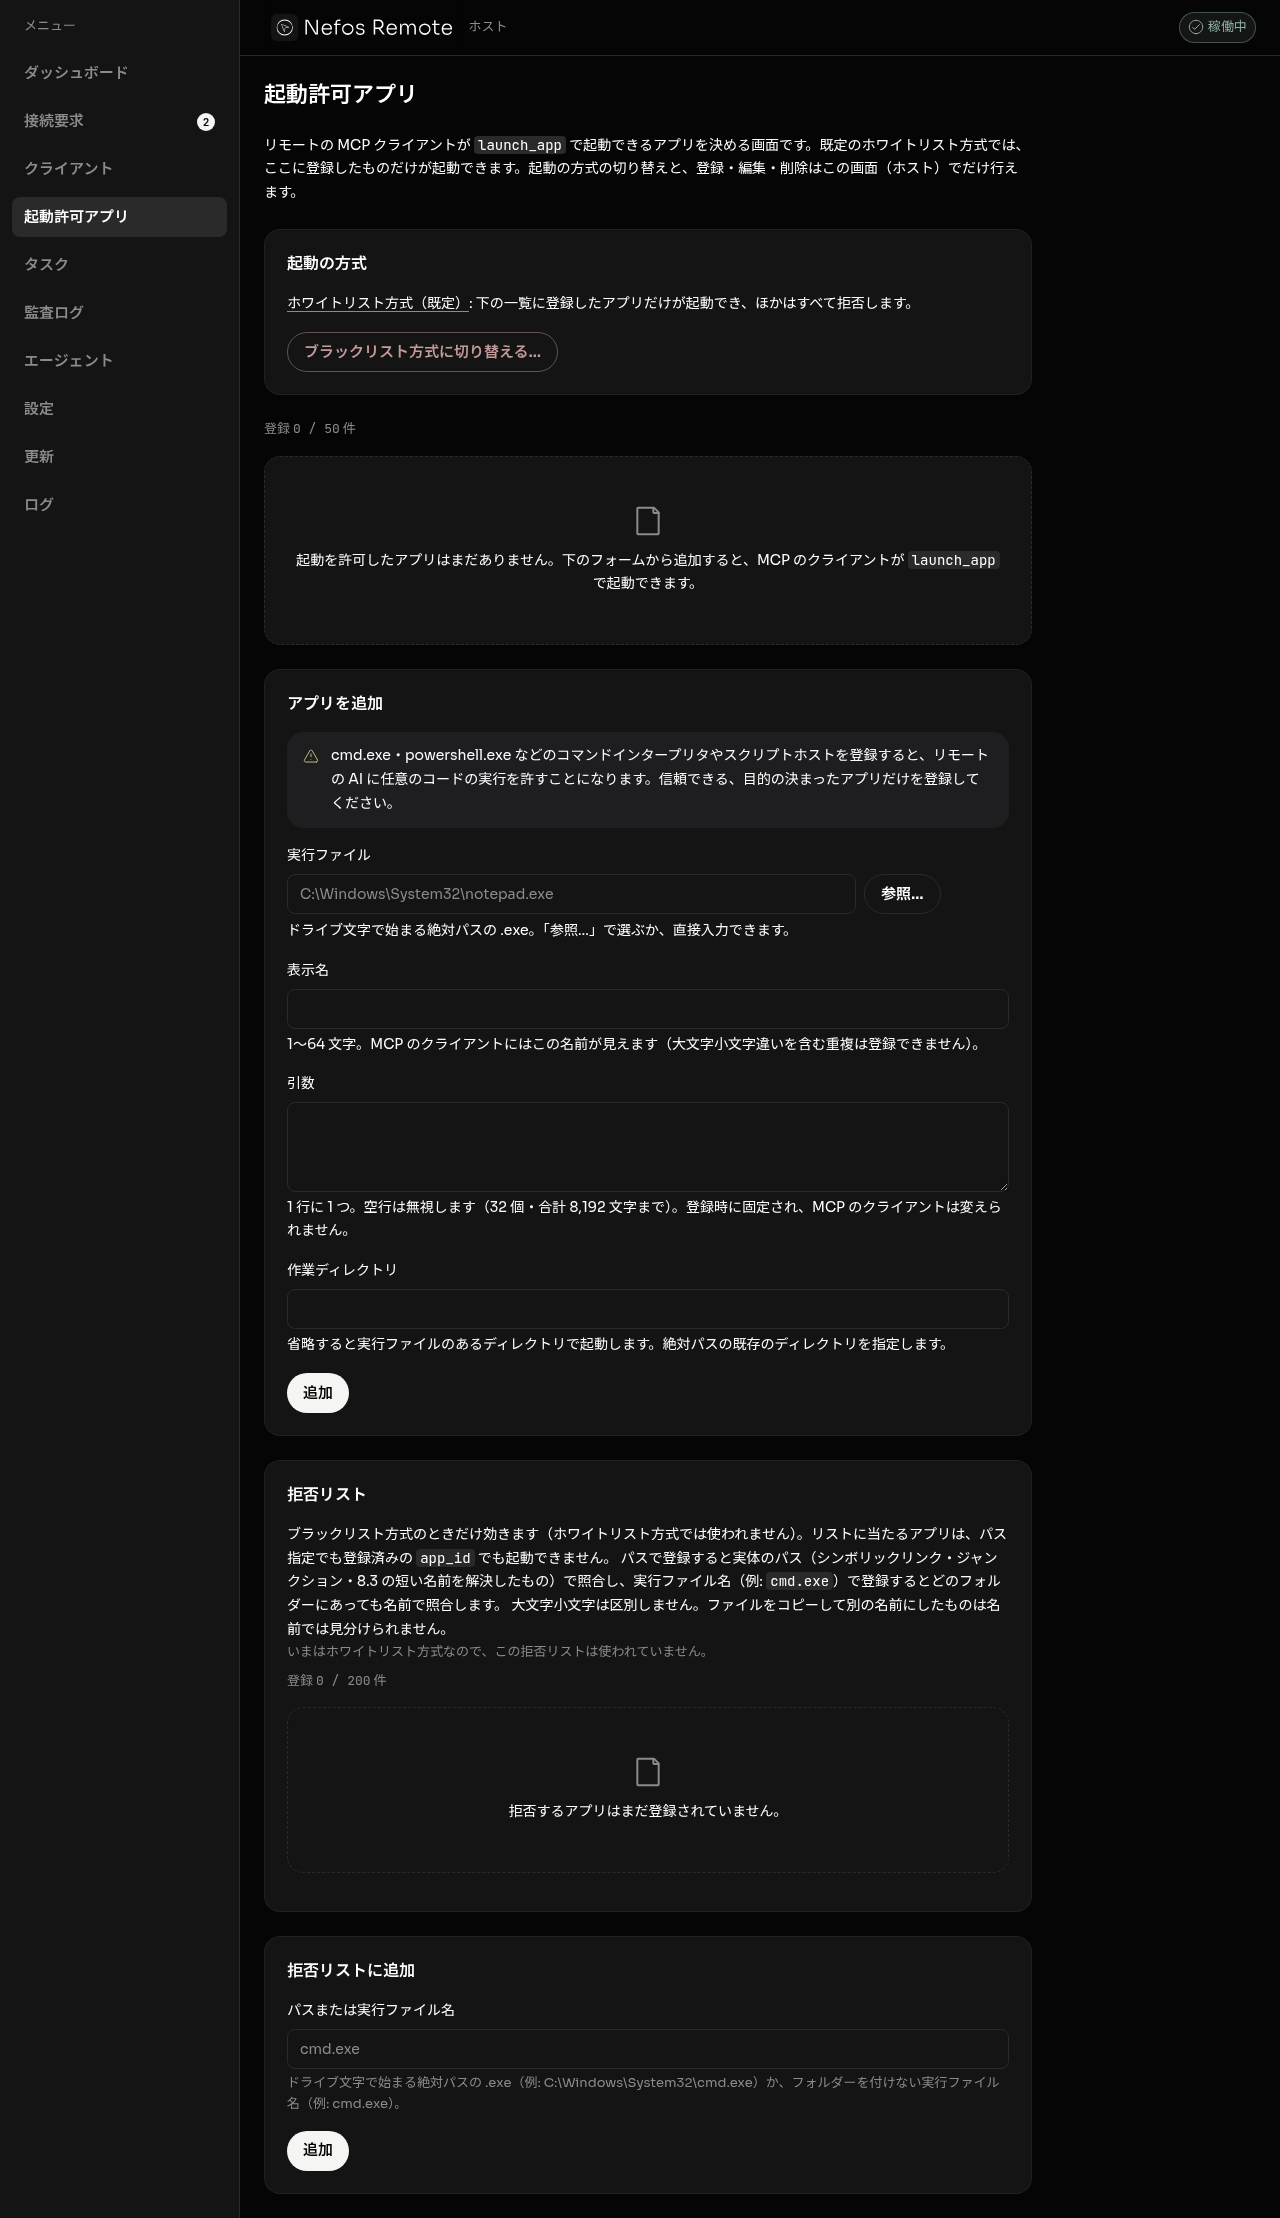
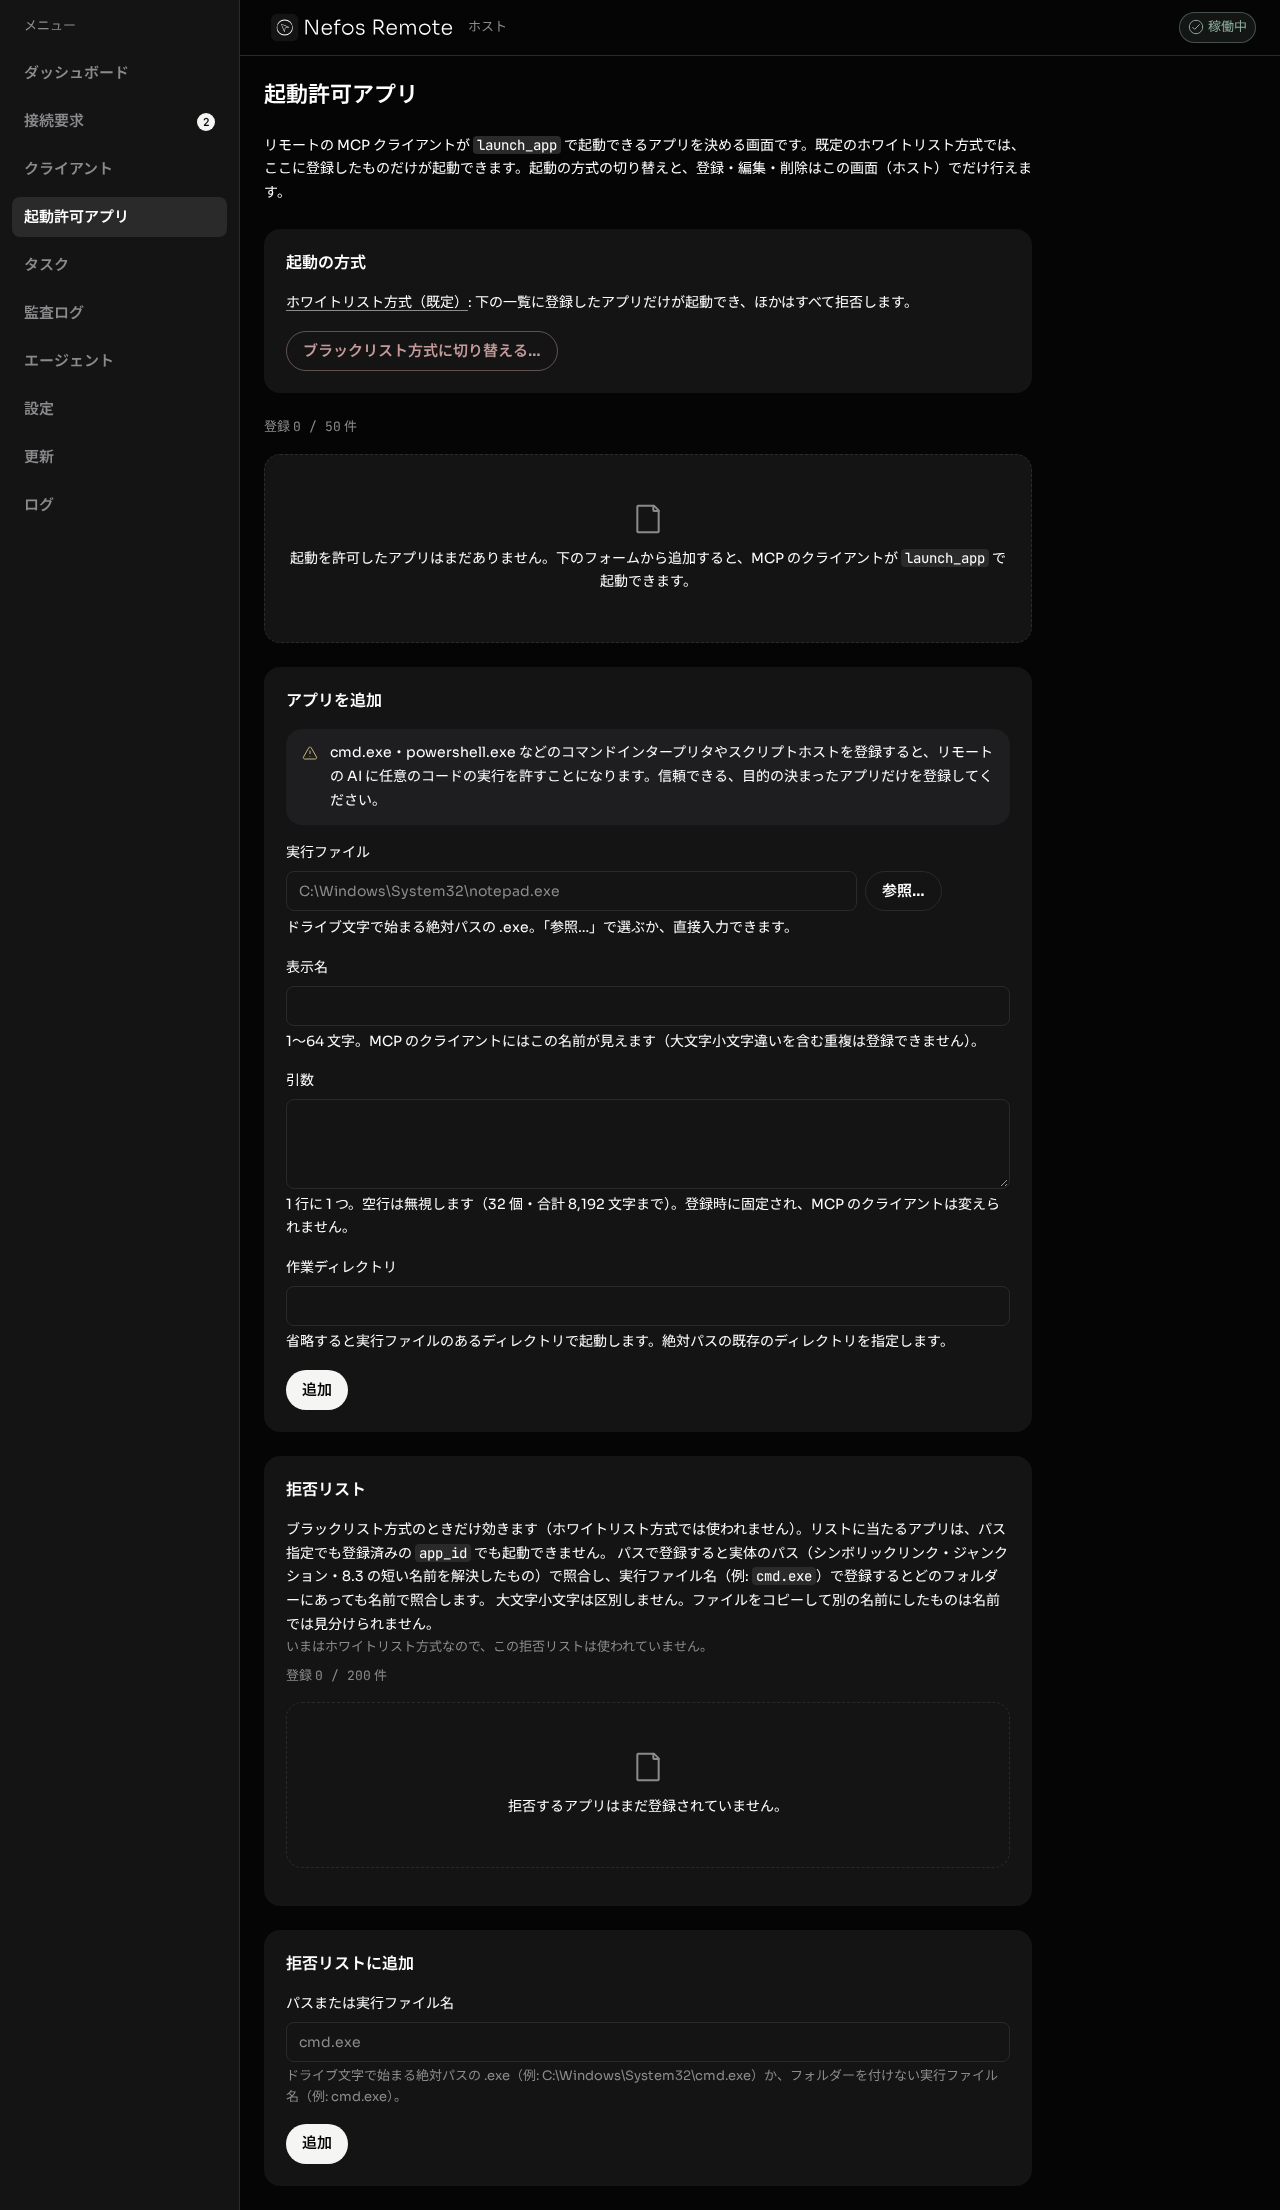
fix: ビューアの面の地を --surface にし、ダーク 1280 のスクショを枠 0 で撮り直す（Refs #261 #262 #263）
- ビューア（remo-screen-viewer のホストと canvas の地）を --surface-sel / --bone から --surface に変更。映像が来る前の面が背景 #050505 に溶けていた
- 320 幅のヘッダーのシンボルは 24×24px で描かれていることを実測（変更なし）
- after-{apps,audit,tasks}-dark-1280 を枠 0 で撮り直し、after-viewer-dark-1280 を追加。README の古い注記を更新

diff --git a/static/src/css/app.css b/static/src/css/app.css
@@ -404,7 +404,7 @@
     }
   }
 
-  /* 枠なしの --surface-sel 面（インラインアラート・入れ子の行・ビューアの枠）は、forced-colors では背景色の差が消えて境目が無くなるので、CanvasText の 1px で区切る。 */
+  /* 枠なしの --surface-sel 面（インラインアラート・入れ子の行）は、forced-colors では背景色の差が消えて境目が無くなるので、CanvasText の 1px で区切る。 */
   @media (forced-colors: active) {
     .bg-surface-sel {
       border: 1px solid CanvasText;

diff --git a/static/src/components/screen-viewer/remo-screen-viewer.ts b/static/src/components/screen-viewer/remo-screen-viewer.ts
@@ -157,7 +157,7 @@ export class RemoScreenViewer extends LitElement {
       display: block;
       width: 100%;
       height: auto;
-      background: var(--bone);
+      background: var(--surface);
     }
     /* グループ源（#157）は等倍で出す（幅いっぱいに拡大しない。メニュー・ダイアログの開閉で画像の大きさが変わっても、T の表示の大きさ・位置が動かない。幅を超えるときだけ縮める）。 */
     canvas[data-group] {

diff --git a/internal/web/organisms/viewer_root_templ.go b/internal/web/organisms/viewer_root_templ.go
@@ -82,7 +82,7 @@ func ViewerRoot(v view.Viewer) templ.Component {
 		if templ_7745c5c3_Err != nil {
 			return templ_7745c5c3_Err
 		}
-		templ_7745c5c3_Err = templruntime.WriteString(templ_7745c5c3_Buffer, 4, "</div><remo-screen-viewer class=\"block overflow-hidden rounded-card card-edge bg-surface-sel\" ws-url=\"")
+		templ_7745c5c3_Err = templruntime.WriteString(templ_7745c5c3_Buffer, 4, "</div><remo-screen-viewer class=\"block overflow-hidden rounded-card card-edge bg-surface\" ws-url=\"")
 		if templ_7745c5c3_Err != nil {
 			return templ_7745c5c3_Err
 		}

diff --git a/docs/architecture/frontend.md b/docs/architecture/frontend.md
@@ -858,4 +858,4 @@ M1 はホスト GUI（GUI ルーター）だけを作る。本書にあって M1
 | 1.81 | 2026-11-27 | §5.4 のエージェント設定画面に Codex 経由のカード（`#codex-card`。エンジンの取得・サインイン・サインアウト・使用量の上限。`data-codex-state`・`data-codex-engine`）、接続方式の選択の 3 値（`chatgpt` ↔ `chatgpt-codex` は確認なし）、公式のカードのポリシー拒否と「Codex 経由で使う」の案内、`/poll` の `rev_codex` を追記し、ChatGPT のカードの「設計のみ・実装は未着手」を実装済みに直した。§10 のトレースを更新 | #247 |
 | 1.82 | 2026-11-27 | デザインガイドの基準を `a66e8514` から `d430361` に更新し（§8.4。`app.css` の冒頭のコメントも）、アプリ画面の文字 3 段（ページタイトル 28 / 700・節 15 / 600・説明 13 / 400）を「アプリ画面の文字 3 段」に追記した。ページタイトルだけ合わせた: ホスト GUI の h1（13 ファイル 16 か所）を `text-3xl font-semibold`（40 / 600）から `text-page-title font-bold`（`--text-page-title: 1.75rem`・28 / 700）にし、700 はページタイトルだけと明記。承認ダイアログ・ビューアの sr-only・待機ページの h1 は据え置き。15 / 13 への寄せと面・部品の同期は後続 | #246 |
 | 1.83 | 2026-11-28 | ページタイトル（h1）を 28 / 700 から 22 / 600 に下げた（PR #248 の追加指示）: `--text-page-title` を `1.375rem`・行間 `1.35` に、h1 のクラスを `font-bold` から `font-semibold` に、`TestPageTitleIsTwentyEightBold` を `TestPageTitleIsTwentyTwoSemibold`（22px・600・行間 1.35。`font-bold` はどのテンプレートにも使わない）に直した。カードの題 18 と本文 16 は変えない | #246 |
-| 1.84 | 2026-11-28 | アプリ画面の文字を 5 段（22 / 600 / 1.35・16 / 600 / 1.5・15 / 600 / 1.5・14 / 400 / 1.7・13 / 400 / 1.6。brand-guide PR #97 の値）にそろえ、ウェイトを最大 600 に（`text-section`・`text-item`・`text-desc`・`text-tip`。`text-xs` と `text-xl` 以上を廃止。#261）。面と枠（カードはライトもダークも外枠・題下の線なし。`--line-soft` 1px は浮く面だけ。`--surface-sel`・`--line-soft`・`--r-card`・`--pad-card` 22・ピルのボタン・アラートの左帯の廃止。#262）。390 幅のヘッダーの折り返しの修正（#263）。§8.4 の該当行と「アプリ画面の文字 5 段・面と枠・部品」の節を更新 | #261・#262・#263 |
+| 1.84 | 2026-11-28 | アプリ画面の文字を 5 段（22 / 600 / 1.35・16 / 600 / 1.5・15 / 600 / 1.5・14 / 400 / 1.7・13 / 400 / 1.6。brand-guide PR #97 の値）にそろえ、ウェイトを最大 600 に（`text-section`・`text-item`・`text-desc`・`text-tip`。`text-xs` と `text-xl` 以上を廃止。#261）。面と枠（カードはライトもダークも外枠・題下の線なし。`--line-soft` 1px は浮く面だけ。`--surface-sel`・`--line-soft`・`--r-card`・`--pad-card` 22・ピルのボタン・アラートの左帯の廃止。#262）。390 幅のヘッダーの折り返しの修正（#263）。リモートのビューアの面（`<remo-screen-viewer>` のホストと canvas の地）は `--surface`（映像が来る前の面が背景 `--bone` に溶けて境目が出なかったため。`--surface-sel` から変更。#262）。§8.4 の該当行と「アプリ画面の文字 5 段・面と枠・部品」の節を更新 | #261・#262・#263 |

diff --git a/docs/screenshots/issue-261-263/README.md b/docs/screenshots/issue-261-263/README.md
@@ -2,9 +2,11 @@
 
 `before-*` は develop `0242bfa`、`after-*` はこのブランチ。`task gui:demo` 相当（`internal/router/internal/guidemo`。偽の service）を Chromium（Playwright・`prefers-color-scheme`）で撮った全画面。
 
-- dashboard: カードの題 16/600、キルスイッチの説明 14/400、ライトもダークもカードに外枠・題下の線なし（面の色 `#141414` / `#050505` で分ける。`after-dashboard-dark-1280.png` は枠を 0 にして撮り直した）、390 幅のヘッダー
+- dashboard: カードの題 16/600、キルスイッチの説明 14/400、ライトもダークもカードに外枠・題下の線なし（面の色 `#141414` / `#050505` で分ける）、390 幅のヘッダー
 - apps: 起動許可アプリの警告（左帯なし・アイコン＋`--surface-sel` 地）
 - audit / tasks: 表の見出し 13/400 `--mute`・本文 14/400・行の区切り `--line-soft`
-- `after-header-killswitch-{light,dark}-{390,360,320}.png`: キルスイッチ発動中（最も長いバッジ「キルスイッチ発動中」）のヘッダー。「ホスト」は sm 未満で sr-only、ロゴは 96px より縮めず、360px 未満（320）は文字ロゴの代わりにシンボル 24px（aria-label「Nefos Remote」）。1 段のまま（ヘッダー高 56px・横スクロールなし）
+- `after-header-killswitch-{light,dark}-{390,360,320}.png`: キルスイッチ発動中（最も長いバッジ「キルスイッチ発動中」）のヘッダー。「ホスト」は sm 未満で sr-only、ロゴは 96px より縮めず、360px 未満（320）は文字ロゴの代わりに単色 32px 版のシンボルを 24px で出す（aria-label「Nefos Remote」。Playwright の getBoundingClientRect の実測で、320・330・359 幅のライト・ダークとも img 24×24px。360 幅から文字ロゴ）。1 段のまま（ヘッダー高 56px・横スクロールなし）
 
-注: ダークの `after-*` のうち、`after-dashboard-dark-1280.png` と `after-header-killswitch-dark-*.png` 以外（`after-dashboard-dark-390`・`after-{apps,audit,tasks}-dark-{1280,390}`）は、カードの枠を 0 にする前の撮影で、カードに `--line-soft` の 1px 枠が残っている。
+- `after-viewer-dark-1280.png`: リモートのビューア（`/viewer`。`task remote:demo` 相当の偽の画面）。映像の面（`<remo-screen-viewer>` の `bg-surface`・canvas の地 `--surface` `#141414`）は枠なし。映像が来る間は左右・上の境目が背景 `#050505` に対してはっきり出る（コントラスト比 2.3〜3.0）。映像が来る前の面だけが背景と近い（`#070707` 対 `#050505`、1.012）ので、面の地を `--bone` から `--surface` に変えた
+
+注: ダークの 1280（dashboard・apps・audit・tasks・viewer）は、カードの枠を 0 にした今の状態で撮り直した。ダークの 390 の 4 枚（`after-{dashboard,apps,audit,tasks}-dark-390.png`）は、枠を 0 にする前の撮影で、カードに `--line-soft` の 1px 枠が残っている（390 は撮り直していない）。
